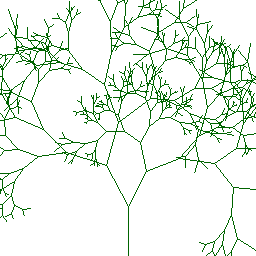
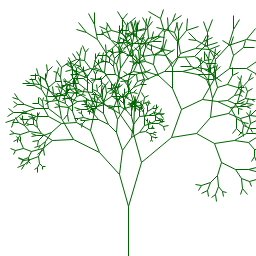
Add functions for drawing antialiased lines & circles

diff --git a/README.md b/README.md
@@ -25,11 +25,76 @@ You also need to install and require (at least) one of the image extensions
 or
 [stumpy_core](https://github.com/stumpycr/stumpy_core).
 
+## RGBA
+
+### HTML/CSS Color Constants
+
+Adds 148 [HTML Colors](https://www.w3schools.com/colors/colors_names.asp)
+to the `RGBA` class.
+
+#### Naming Convention
+
+All uppercase, no seperators. For example:
+
+* AliceBlue => `RGBA::ALICEBLUE`
+* Red => `RGBA::RED`
+
+#### Example
+
+``` crystal
+require "stumpy_png"
+require "stumpy_utils"
+include StumpyPNG
+
+canvas = Canvas.new(200, 200) do |x, y|
+  case y
+  when 0...50
+    RGBA::RED
+  when 50...100
+    RGBA::YELLOW
+  when 100...150
+    RGBA::GREEN
+  else
+    RGBA::BLUE
+  end
+end
+
+StumpyPNG.write(canvas, "colors.png")
+```
+
+![Four colored rectangles](examples/colors.png)
+
+### `color1.mix(color2 : RGBA, factor : Float)`
+
+Linear interpolation of two colors,
+factor must be in the range of 0.0 (just color1) to 1.0 (just color2).
+
+#### Example
+
+``` crystal
+require "stumpy_png"
+require "stumpy_utils"
+include StumpyPNG
+
+color1 = RGBA::RED
+color2 = RGBA::YELLOW
+
+canvas = Canvas.new(400, 50) do |x, y|
+  color1.mix(color2, x.to_f / 400)
+end
+
+StumpyPNG.write(canvas, "mix.png")
+```
+
+![Gradient from red to yellow](examples/mix.png)
+
 ## Canvas
 
-### `Canvas.line(x0, y0, x1, y1, color = RGBA::BLACK)`
+### `canvas.line(x0, y0, x1, y1, color = RGBA::BLACK)`
 
-Use the Bresenham algorithm to draw a line from (x0, y0) to (x1, y1).
+Use the Xiaolin Wo algorithm
+to draw an antialiased line from (x0, y0) to (x1, y1).
+`x0`, etc can be floats, too.
 
 #### Example
 
@@ -67,3 +132,34 @@ StumpyPNG.write(canvas, "tree.png")
 ```
 
 ![Tree generated using lines](examples/tree.png)
+
+### `canvas.circle(center_x, center_y, radius, color = RGBA::BLACK, filled = false)`
+
+Use the Xiaolin Wo algorithm
+to draw an antialiased (filled) circle
+around (center_x, center_y).
+
+#### Example
+
+``` crystal
+require "stumpy_png"
+require "stumpy_utils"
+include StumpyPNG
+
+canvas = Canvas.new(400, 400, RGBA::WHITE)
+colors = [RGBA::WHITE, RGBA::DARKSLATEGRAY, RGBA::LIGHTBLUE, RGBA::RED, RGBA::YELLOW]
+
+colors.each_with_index do |color, i|
+  radius = (colors.size - i) * 40
+  canvas.circle(200, 200, radius, color, true)
+end
+
+(colors.size * 2).times do |i|
+  radius = ((colors.size * 2) - i) * 20
+  canvas.circle(200, 200, radius, RGBA::BLACK, false)
+end
+
+StumpyPNG.write(canvas, "circles.png")
+```
+
+![Concentric circles](examples/circles.png)
